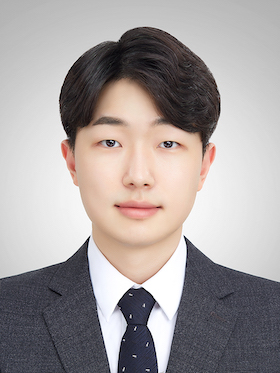
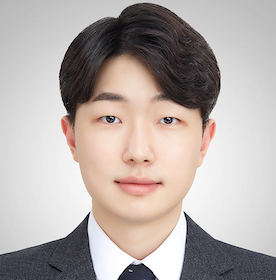
Update: resize img

diff --git a/style.css b/style.css
@@ -486,7 +486,7 @@ p {
     align-items: center;
   }
   .testimonials__avatar {
-    height: 120px;
+    height: 100px;
     width: 100px;
   }
   .testimonials__avatar:nth-child(even),
